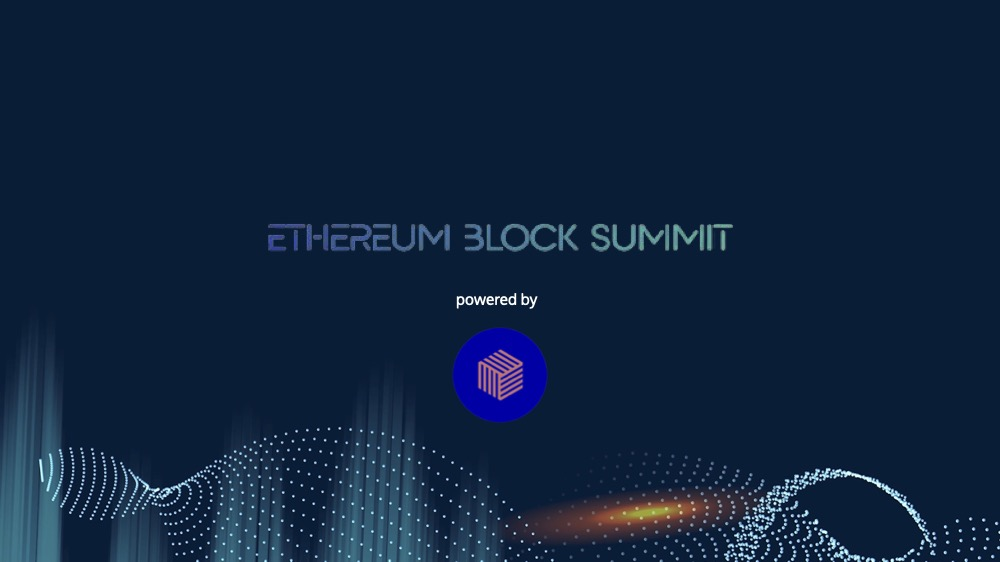
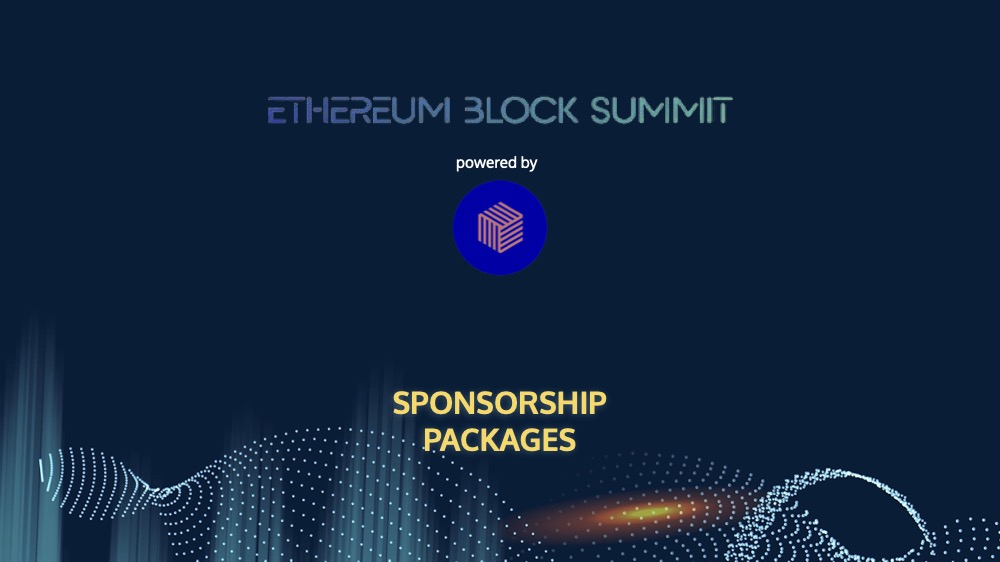
sponsor card

Changed region(s): [[0.248, 0.2722, 0.744, 0.5445], [0.372, 0.5747, 0.62, 0.8167], [0.248, 0.1512, 0.744, 0.242]]

diff --git a/index.html b/index.html
@@ -756,46 +756,82 @@
 
     </section><!-- End Buy Ticket Section -->
 
-    <section class="row w-auto align-items-center d-flex justify-content-center mb-5" >
-      <div class="col-10 ">
-        <div id="carouselExampleDark" class="carousel carousel-dark slide" data-bs-ride="carousel">
-          <div class="carousel-indicators bg-white " >
-            <button  type="button" data-bs-target="#carouselExampleDark" data-bs-slide-to="0" class="active" aria-current="true" aria-label="Slide 1"></button>
-            <button type="button" data-bs-target="#carouselExampleDark" data-bs-slide-to="1" aria-label="Slide 2"></button>
-            <button type="button" data-bs-target="#carouselExampleDark" data-bs-slide-to="2" aria-label="Slide 3"></button>
+    <section  class=" pt-3" style="">
+
+      <div class="container ">
+       <div class="row d-flex align-items-center">
+        <div class='col-md-7 '  data-aos="fade-right">
+          <!-- <div>
+            <img class='img-thumbnail ' style="width: 450px; height: 600px; object-fit: cover;"  src="assets/img/AboutConference.png" alt="">
+          </div> -->
+          <div id="carouselExampleIndicators1" style="height: 400px;" class="carousel slide" data-bs-ride="carousel">
+            <div class="carousel-indicators" style="background-color: #091469 ; margin-bottom: -20px; border-radius: 10%;">
+              <button type="button" data-bs-target="#carouselExampleIndicators1"  data-bs-slide-to="0" class="active " aria-current="true" aria-label="Slide 1"></button>
+              <button type="button" data-bs-target="#carouselExampleIndicators1" data-bs-slide-to="1" aria-label="Slide 2"></button>
+              <button type="button" data-bs-target="#carouselExampleIndicators1" data-bs-slide-to="2" aria-label="Slide 3"></button>
+              <button type="button" data-bs-target="#carouselExampleIndicators1" data-bs-slide-to="3" aria-label="Slide 4"></button>
+              <button type="button" data-bs-target="#carouselExampleIndicators1" data-bs-slide-to="4" aria-label="Slide 5"></button>
+              <button type="button" data-bs-target="#carouselExampleIndicators1" data-bs-slide-to="5" aria-label="Slide 6"></button>
+              <button type="button" data-bs-target="#carouselExampleIndicators1" data-bs-slide-to="6" aria-label="Slide 7"></button>
+            </div>
+            <div class="carousel-inner" style="border-radius: 20px;">
+                <div class="carousel-item active" data-bs-interval="1800">
+                <img src="assets/img/sponserCards/Sponsor1.jpg"  class="d-block w-100" alt="...">
+              </div>
+              <div class="carousel-item" data-bs-interval="1800">
+                <img src="assets/img/sponserCards/Sponsor2.jpg" class="d-block w-100" alt="...">
+              </div>
+              <div class="carousel-item" data-bs-interval="1800">
+                <img src="assets/img/sponserCards/Sponsor3.jpg" class="d-block w-100" alt="...">
+              </div>
+              <div class="carousel-item" data-bs-interval="1800">
+                <img src="assets/img/sponserCards/Sponsor4.jpg" class="d-block w-100" alt="...">
+              </div>
+              <div class="carousel-item" data-bs-interval="1800">
+                <img src="assets/img/sponserCards/Sponsor5.jpg" class="d-block w-100" alt="...">
+              </div>
+              <div class="carousel-item" data-bs-interval="1800">
+                <img src="assets/img/sponserCards/Sponsor6.jpg" class="d-block w-100" alt="...">
+              </div>
+              <div class="carousel-item" data-bs-interval="1800">
+                <img src="assets/img/sponserCards/Sponsor7.jpg" class="d-block w-100" alt="...">
+              </div>
+            </div>
+            <button class="carousel-control-prev" type="button" data-bs-target="#carouselExampleIndicators1" data-bs-slide="prev">
+              <span class="carousel-control-prev-icon" aria-hidden="true"></span>
+              <span class="visually-hidden">Previous</span>
+            </button>
+            <button class="carousel-control-next" type="button" data-bs-target="#carouselExampleIndicators1" data-bs-slide="next">
+              <span class="carousel-control-next-icon" aria-hidden="true"></span>
+              <span class="visually-hidden">Next</span>
+            </button>
+          
           </div>
-          <div class="carousel-inner">
-            <div class="carousel-item active" data-bs-interval="10000">
-              <img src="assets/img/sponserCards/Sponsor1.jpg" class="d-block w-100" alt="...">
-              <div class="carousel-caption d-none d-md-block">
-                
-              </div>
-            </div>
-            <div class="carousel-item" data-bs-interval="2000">
-              <img src="assets/img/sponserCards/Sponsor2.jpg" class="d-block w-100" alt="...">
-              <div class="carousel-caption d-none d-md-block">
-                
-              </div>
-            </div>
-            <div class="carousel-item">
-              <img src="assets/img/sponserCards/Sponsor3.jpg" class="d-block w-100" alt="...">
-              <div class="carousel-caption d-none d-md-block">
+         <div>
+          <p> </p><br>
+         
+         </div>
+       </div>
+        <div class='col-md-5  ' data-aos="fade-left">
+          
+          <div class="" style="height: auto;">
+            <div class="section-header">
+              <h2 style="color:  #8564e0;">Sponsor</h2>
+              <!-- <p>Here is about our event </p> -->
               
-              </div>
             </div>
+            <div class="d-flex justify-content-center" >
+              <h4 style="color:  #8564e0;"></h4>
+            </div>
+  
           </div>
-          <button class="carousel-control-prev" type="button" data-bs-target="#carouselExampleDark" data-bs-slide="prev">
-            <span class="carousel-control-prev-icon" aria-hidden="true"></span>
-            <span class="visually-hidden">Previous</span>
-          </button>
-          <button class="carousel-control-next" type="button" data-bs-target="#carouselExampleDark" data-bs-slide="next">
-            <span class="carousel-control-next-icon" aria-hidden="true"></span>
-            <span class="visually-hidden">Next</span>
-          </button>
+        </div>
+       
+          
         </div>
       </div>
-    </section>
 
+    </section>
     <section id="faq" class="section-with-bg">
 
       <div class="container" data-aos="fade-up">
